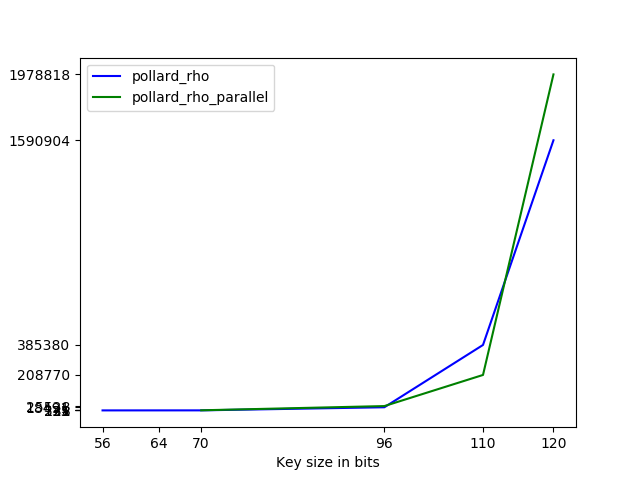
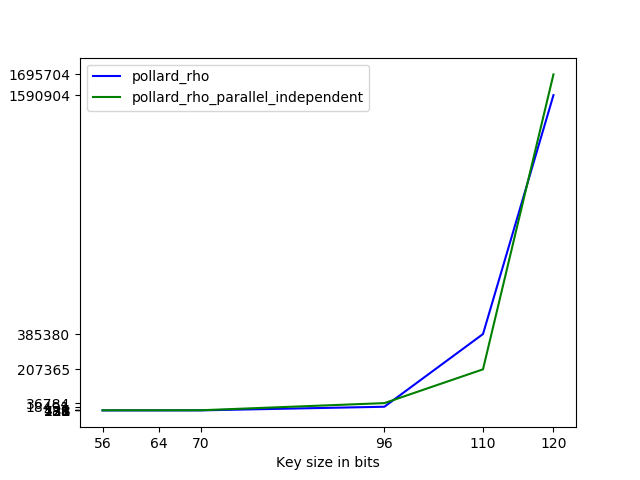
started implementing parallel version

diff --git a/factorizer/pollard_rho/rsa_pollard_rho_parallel.py b/factorizer/pollard_rho/rsa_pollard_rho_parallel.py
@@ -18,7 +18,7 @@ class rsa_pollard_rho_parallel(implements(rsa_factorizer)):
 
     def pollard_rho_worker(self, trial_n, k, i, queue, f):
         x = random.randint(2, self.n - 1)
-        y = x
+        y = f(x)
         Q = 1
         for i in range(1, trial_n):
             x = f(x)
@@ -28,14 +28,17 @@ class rsa_pollard_rho_parallel(implements(rsa_factorizer)):
 
 
     def factorize(self, a = 1):
+        done_threads_counter = 0
         queue = Queue()
         # Step 1: Define prime K such that for some prime K p \equiv 1 \mod K'
         k = self.k_calculator.calculate(self.n)
         # Step 2: Define trial n, being a multiple of m, such that p = n^2m^2()gcd(p-1,"K)- have a good chance of being discovered
-        trial_n = self.n_calculator(self.n, self.m, k)
+        trial_n = self.n_calculator.calculate(self.n, self.m, k)
         # Step 3. On each machine of m define an initial seed
-        process = [Process(target=self.pollard_rho_worker, args=(trial_n, k, i, queue)) for i in range(self.m)]
+        f = lambda u: u ** 2 + a % self.n
+        process = [Process(target=self.pollard_rho_worker, args=(trial_n, k, i, queue, f)) for i in range(self.m)]
         for t in process:
             t.start()
         # Step 4:
-        return p, int(self.n / p)
+        return 1,1
+

diff --git a/test/factorizers/rsa_pollard_rho_parallel_test.py b/test/factorizers/rsa_pollard_rho_parallel_test.py
@@ -1,0 +1,30 @@
+import unittest
+
+from interface import implements
+
+from factorizer.pollard_rho.k_calculator import k_calculator
+from factorizer.pollard_rho.n_calculator import n_calculator
+from factorizer.pollard_rho.rsa_pollard_rho_parallel import rsa_pollard_rho_parallel
+
+
+class rsa_pollard_rho_parallel_test(unittest.TestCase):
+    def test_factorizer(self):
+        sut = rsa_pollard_rho_parallel(8932919, 1, 3, basic_k_calculator(), basic_n_calculator())
+        p, q = sut.factorize()
+        if p == 3259:
+            p, q = 2741, 3259
+        return p, q
+
+
+if __name__ == '__main__':
+    unittest.main()
+
+
+class basic_k_calculator(implements(k_calculator)):
+    def calculate(self, n):
+        return 10
+
+
+class basic_n_calculator(implements(n_calculator)):
+    def calculate(self, n, m, k):
+        return 4

diff --git a/factorizer/pollard_rho/rsa_pollard_rho_parallel_independent.py b/factorizer/pollard_rho/rsa_pollard_rho_parallel_independent.py
@@ -21,7 +21,7 @@ class rsa_pollard_rho_parallel_independent(implements(rsa_factorizer)):
 
     def factorize(self):
         queue = Queue()
-        process = [Process(target=worker, args=(self.n, self.e, queue, i,)) for i in range(4)]
+        process = [Process(target=worker, args=(self.n, self.e, queue, i,)) for i in range(3)]
         for t in process:
             t.start()
         p, q = queue.get()

diff --git a/factorizer/pollard_rho/n_calculator.py b/factorizer/pollard_rho/n_calculator.py
@@ -1,0 +1,6 @@
+from interface import Interface
+
+
+class n_calculator(Interface):
+    def calculate(self, n, m, k):
+        pass

diff --git a/factorizer/pollard_rho/k_calculator.py b/factorizer/pollard_rho/k_calculator.py
@@ -1,0 +1,6 @@
+from interface import Interface
+
+
+class k_calculator(Interface):
+    def calculate(self, n):
+        pass
